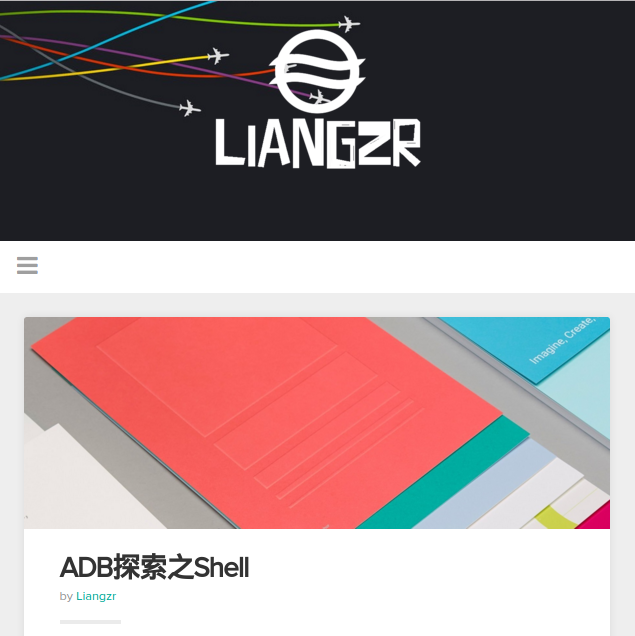
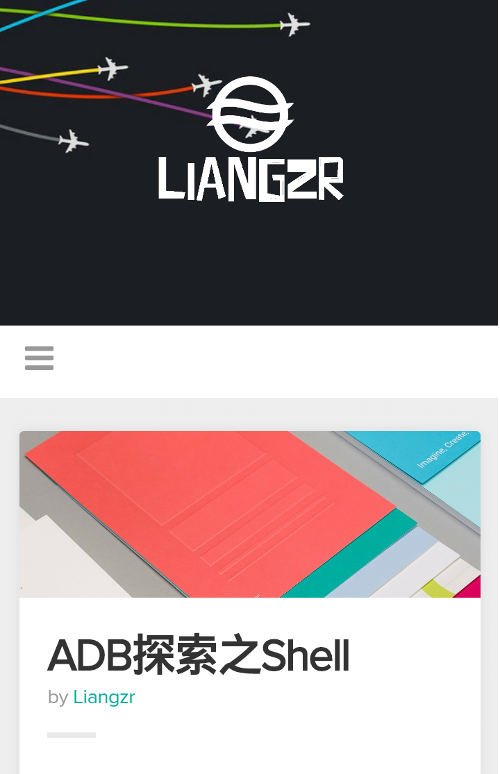
Change image sizes

Changed region(s): [[0.0, 0.0, 1.0, 0.956], [0.0, 0.0, 0.69, 0.2689], [0.06, 0.6572, 0.12, 0.6871]]

diff --git a/css/demo.css b/css/demo.css
@@ -63,8 +63,8 @@ img.avatar{
 img.blog{
 	position:relative;
 	top: 100px;
-	width:450px;
-	height:450px;
+	width:500px;
+	height:774px;
 }
 
 .layer p {
